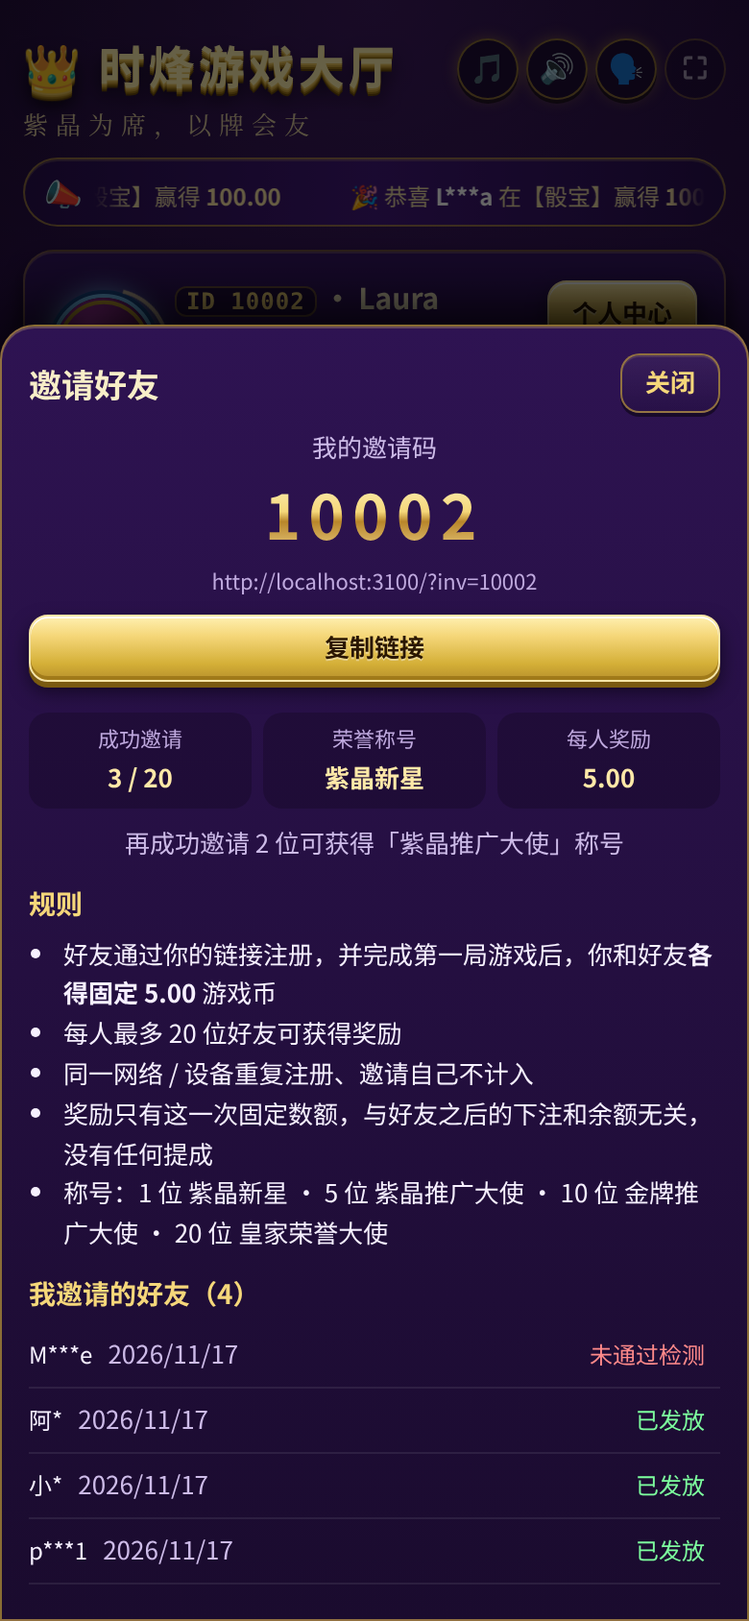
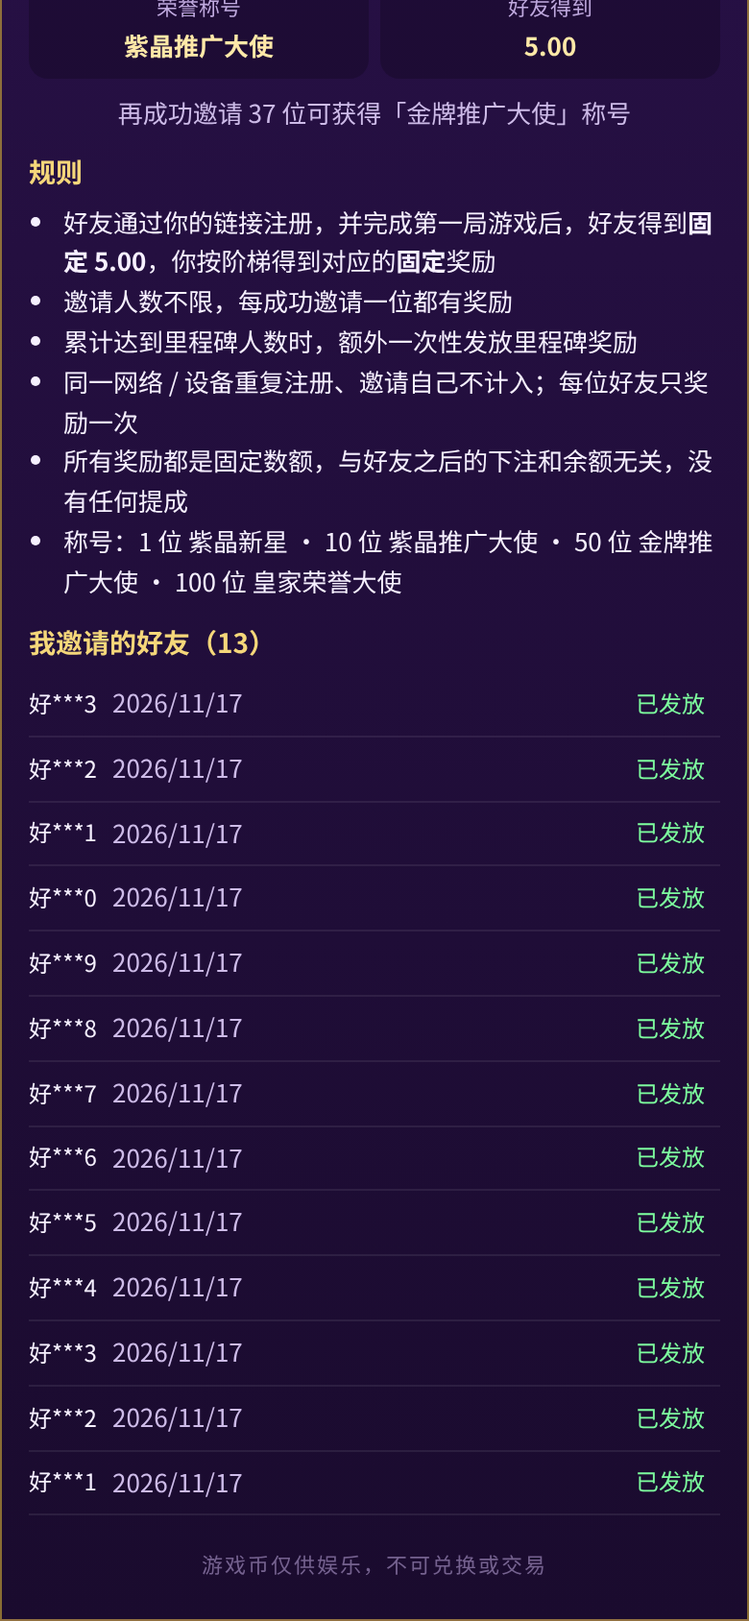
邀请好友：默认不限人数；邀请人阶梯奖励（1–10 位 5.00、11–50 位 8.00、51 位起 10.00）+ 里程碑一次性奖励（10/50/100 位）；后台可编辑；启动时把旧的 20 人上限迁移为不限

diff --git a/db.js b/db.js
@@ -1,3 +1,4 @@
+import { tierAmount } from "./platform.js";
 // 数据存储：有 DATABASE_URL 时用 Postgres，否则退回本地 JSON 文件（仅供本地开发/测试）
 // 这里存的全部是游戏筹码，不是真钱。
 import fs from "node:fs";
@@ -255,18 +256,24 @@ class PgStore {
   // ---- 邀请好友（固定奖励，没有提成、没有多级） ----
   async firstPlay(userId) { const r = await this.q(`UPDATE users SET first_played = TRUE WHERE id=$1 AND NOT first_played RETURNING invited_by, invite_status`, [userId]); return r.rows[0] ? { invitedBy: r.rows[0].invited_by == null ? null : Number(r.rows[0].invited_by), inviteStatus: r.rows[0].invite_status } : null; }
   async countInviteesByIp(inviterId, ip) { return Number((await this.q(`SELECT count(*) AS n FROM users WHERE invited_by=$1 AND (reg_ip=$2 OR last_ip=$2)`, [inviterId, ip])).rows[0].n); }
-  async inviteReward(inviteeId, amount, cap) {
+  // 一次事务：好友固定奖励 + 邀请人按档位的奖励 + 刚达到的里程碑（reward_claims 唯一索引保证每样只发一次）
+  async inviteReward(inviteeId, cfg) {
+    const { amount, cap = 0, tiers, milestones = [] } = cfg;
     return this.tx(async (c) => {
       const me = (await c.query(`SELECT invited_by, invite_status, username FROM users WHERE id=$1 FOR UPDATE`, [inviteeId])).rows[0];
       if (!me || me.invite_status !== "pending" || me.invited_by == null) return me ? me.invite_status : null;
       const inviter = Number(me.invited_by);
       const iv = (await c.query(`SELECT username FROM users WHERE id=$1 FOR UPDATE`, [inviter])).rows[0]; if (!iv) return null;
       const n = Number((await c.query(`SELECT count(*) AS n FROM users WHERE invited_by=$1 AND invite_status='rewarded'`, [inviter])).rows[0].n);
-      if (n >= cap) { await c.query(`UPDATE users SET invite_status='capped' WHERE id=$1`, [inviteeId]); return "capped"; }
-      await c.query(`INSERT INTO reward_claims (user_id, type, ref, amount) VALUES ($1,'invite',$3,$4), ($2,'invited',$3,$4)`, [inviter, inviteeId, "u" + inviteeId, amount]);
-      for (const [uid, why] of [[inviter, `邀请好友奖励（${me.username} 首次游戏）`], [inviteeId, `受邀注册奖励（邀请人 ${iv.username}）`]]) {
-        const b = await c.query(`UPDATE users SET balance = balance + $2 WHERE id=$1 RETURNING balance`, [uid, amount]);
-        await c.query(`INSERT INTO ledger (user_id, delta, balance_after, reason, actor) VALUES ($1,$2,$3,$4,'system')`, [uid, amount, Number(b.rows[0].balance), why]);
+      if (cap > 0 && n >= cap) { await c.query(`UPDATE users SET invite_status='capped' WHERE id=$1`, [inviteeId]); return "capped"; }
+      const k = n + 1, mine = tierAmount(k, tiers);
+      const pay = [[inviter, "invite", "u" + inviteeId, mine, `邀请好友奖励（第 ${k} 位：${me.username} 首次游戏）`], [inviteeId, "invited", "u" + inviteeId, amount, `受邀注册奖励（邀请人 ${iv.username}）`]];
+      for (const m of milestones) if (k >= m.at && m.bonus > 0) pay.push([inviter, "milestone", "m" + m.at, m.bonus, `邀请里程碑奖励（累计 ${m.at} 位）`]);
+      for (const [uid, type, ref, amt, why] of pay) {
+        const ins = await c.query(`INSERT INTO reward_claims (user_id, type, ref, amount) VALUES ($1,$2,$3,$4) ON CONFLICT DO NOTHING RETURNING id`, [uid, type, ref, amt]);
+        if (!ins.rows.length || !(amt > 0)) continue;
+        const b = await c.query(`UPDATE users SET balance = balance + $2 WHERE id=$1 RETURNING balance`, [uid, amt]);
+        await c.query(`INSERT INTO ledger (user_id, delta, balance_after, reason, actor) VALUES ($1,$2,$3,$4,'system')`, [uid, amt, Number(b.rows[0].balance), why]);
       }
       await c.query(`UPDATE users SET invite_status='rewarded' WHERE id=$1`, [inviteeId]);
       return "rewarded";
@@ -281,6 +288,7 @@ class PgStore {
     const top = (await this.q(`SELECT i.id, i.username, i.public_id, count(*) AS total, sum(CASE WHEN u.invite_status='rewarded' THEN 1 ELSE 0 END) AS rewarded FROM users u JOIN users i ON i.id=u.invited_by GROUP BY i.id, i.username, i.public_id ORDER BY rewarded DESC, total DESC LIMIT 30`)).rows;
     return { byStatus: Object.fromEntries(s.map((x) => [x.st || "none", Number(x.n)])), inviters: top.map((x) => ({ userId: Number(x.id), username: x.username, publicId: Number(x.public_id), total: Number(x.total), rewarded: Number(x.rewarded) })) };
   }
+  async userClaims(userId) { return (await this.q(`SELECT type, ref, amount FROM reward_claims WHERE user_id=$1`, [userId])).rows.map((x) => ({ type: x.type, ref: x.ref, amount: Number(x.amount) })); }
   async rewardTotals() {
     const r = await this.q(`SELECT type, count(*) AS n, COALESCE(sum(amount),0) AS amount FROM reward_claims GROUP BY type`);
     return Object.fromEntries(r.rows.map((x) => [x.type, { count: Number(x.n), amount: Number(x.amount) }]));
@@ -418,15 +426,21 @@ class JsonStore {
   }
   async firstPlay(userId) { const u = this.u(userId); if (!u || u.firstPlayed) return null; u.firstPlayed = true; this.save(); return { invitedBy: u.invitedBy ?? null, inviteStatus: u.inviteStatus ?? null }; }
   async countInviteesByIp(inviterId, ip) { return this.d.users.filter((x) => x.invitedBy === inviterId && (x.regIp === ip || x.lastIp === ip)).length; }
-  async inviteReward(inviteeId, amount, cap) {
+  async inviteReward(inviteeId, cfg) {
+    const { amount, cap = 0, tiers, milestones = [] } = cfg;
     const me = this.u(inviteeId); if (!me || me.inviteStatus !== "pending" || me.invitedBy == null) return me ? me.inviteStatus : null;
     const iv = this.u(me.invitedBy); if (!iv) return null;
-    if (this.d.users.filter((x) => x.invitedBy === iv.id && x.inviteStatus === "rewarded").length >= cap) { me.inviteStatus = "capped"; this.save(); return "capped"; }
+    const n = this.d.users.filter((x) => x.invitedBy === iv.id && x.inviteStatus === "rewarded").length;
+    if (cap > 0 && n >= cap) { me.inviteStatus = "capped"; this.save(); return "capped"; }
     const C = (this.d.claims ||= []);
     if (C.some((c) => c.type === "invite" && c.ref === "u" + inviteeId)) return "rewarded";
-    C.push({ userId: iv.id, type: "invite", ref: "u" + inviteeId, amount, at: Date.now() }, { userId: inviteeId, type: "invited", ref: "u" + inviteeId, amount, at: Date.now() });
-    iv.balance += amount; this.log(iv.id, amount, iv.balance, `邀请好友奖励（${me.username} 首次游戏）`, "system");
-    me.balance += amount; this.log(me.id, amount, me.balance, `受邀注册奖励（邀请人 ${iv.username}）`, "system");
+    const k = n + 1, pay = [[iv, "invite", "u" + inviteeId, tierAmount(k, tiers), `邀请好友奖励（第 ${k} 位：${me.username} 首次游戏）`], [me, "invited", "u" + inviteeId, amount, `受邀注册奖励（邀请人 ${iv.username}）`]];
+    for (const m of milestones) if (k >= m.at && m.bonus > 0) pay.push([iv, "milestone", "m" + m.at, m.bonus, `邀请里程碑奖励（累计 ${m.at} 位）`]);
+    for (const [u, type, ref, amt, why] of pay) {
+      if (C.some((c) => c.type === type && c.userId === u.id && c.ref === ref)) continue;
+      C.push({ userId: u.id, type, ref, amount: amt, at: Date.now() });
+      if (amt > 0) { u.balance += amt; this.log(u.id, amt, u.balance, why, "system"); }
+    }
     me.inviteStatus = "rewarded"; this.save(); return "rewarded";
   }
   async inviteList(inviterId) { return this.d.users.filter((x) => x.invitedBy === inviterId).sort((a, b) => b.id - a.id).slice(0, 100).map((x) => ({ username: x.username, status: x.inviteStatus, at: x.createdAt })); }
@@ -436,6 +450,8 @@ class JsonStore {
     const inviters = [...m].map(([id, t]) => { const u = this.u(id) || {}; return { userId: id, username: u.username, publicId: u.publicId, ...t }; }).sort((a, b) => b.rewarded - a.rewarded || b.total - a.total).slice(0, 30);
     return { byStatus, inviters };
   }
+  async userClaims(userId) { return (await this.q(`SELECT type, ref, amount FROM reward_claims WHERE user_id=$1`, [userId])).rows.map((x) => ({ type: x.type, ref: x.ref, amount: Number(x.amount) })); }
+  async userClaims(userId) { return (this.d.claims || []).filter((c) => c.userId === userId).map((c) => ({ type: c.type, ref: c.ref, amount: c.amount })); }
   async rewardTotals() { const o = {}; for (const c of this.d.claims || []) { const t = (o[c.type] ||= { count: 0, amount: 0 }); t.count++; t.amount += c.amount; } return o; }
   async close() { this.save(); }
 }

diff --git a/public/index.html b/public/index.html
@@ -633,6 +633,10 @@ html.land #tgRes2 .in{padding:8px 18px;width:100%}html.land #tgRes2 .t{font-size
 html:not(.land) #tg[data-g="baccarat"] .pc.t{width:44px;height:62px;font-size:19px}
 .pc.t.third{margin:0 9px}
 .seg.blinds button{font-size:13px;padding-left:2px;padding-right:2px;white-space:nowrap}
+.tiers{display:flex;flex-direction:column;gap:4px}.tiers>div{display:grid;grid-template-columns:1fr auto auto 38px;gap:6px;align-items:center;padding:6px 10px;border-radius:10px;background:#0003;border:1px solid #ffffff14}
+.tiers>div.on{border-color:#f5d77a;background:#f5d77a22;box-shadow:0 0 10px #f5d77a55}.tiers>div.past{opacity:.6}.tiers b{color:#ffe9a8;font-size:16px}.tiers i{font-style:normal;font-size:10px;background:#d4af37;color:#2a1600;border-radius:6px;padding:0 4px;text-align:center}
+.miles{display:grid;grid-template-columns:repeat(3,1fr);gap:6px}.miles>div{background:#0003;border-radius:10px;padding:6px;text-align:center;border:1px solid #ffffff14;display:flex;flex-direction:column}
+.miles>div.done{border-color:#7dff9e88}.miles .ma{font-size:11px;color:#bfa9de}.miles b{color:#ffe9a8}.miles .mp{font-size:11px}
 </style>
 </head>
 <body>
@@ -993,10 +997,15 @@ window.openInvite = async () => {
   const link = location.origin + "/?inv=" + d.code, ST = { pending: "等待首局", rewarded: "已发放", blocked: "未通过检测", capped: "已达上限" };
   hModal("邀请好友", `<div class="invhead"><div class="muted">我的邀请码</div><div class="invcode">${esc(d.code)}</div><div class="invlink">${esc(link)}</div>
     <div class="row" style="justify-content:center;gap:8px;margin-top:8px"><button class="pri sm" id="invCopy">复制链接</button>${navigator.share ? `<button class="blue sm" id="invShare">分享</button>` : ""}</div></div>
-    <div class="invstat"><div><div class="k">成功邀请</div><div class="v">${d.rewarded} / ${d.cap}</div></div><div><div class="k">荣誉称号</div><div class="v">${d.title ? esc(d.title) : "—"}</div></div><div><div class="k">每人奖励</div><div class="v">${M(d.amount)}</div></div></div>
-    ${d.next ? `<div class="muted" style="text-align:center">再成功邀请 ${d.next.n - d.rewarded} 位可获得「${esc(d.next.title)}」称号</div>` : ""}
+    <div class="invstat"><div><div class="k">成功邀请</div><div class="v">${d.cap > 0 ? `${d.rewarded} / ${d.cap}` : d.rewarded}</div></div><div><div class="k">已获邀请奖励</div><div class="v">${M(d.earned)}</div></div><div><div class="k">下一位可得</div><div class="v">${M(d.nextReward)}</div></div></div>
     ${d.enabled ? "" : `<div class="nochips">邀请奖励活动暂未开启</div>`}
-    <h3>规则</h3><ul class="invrules"><li>好友通过你的链接注册，并完成第一局游戏后，你和好友<b>各得固定 ${M(d.amount)}</b> 游戏币</li><li>每人最多 ${d.cap} 位好友可获得奖励</li><li>同一网络 / 设备重复注册、邀请自己不计入</li><li>奖励只有这一次固定数额，与好友之后的下注和余额无关，没有任何提成</li><li>称号：1 位 紫晶新星 · 5 位 紫晶推广大使 · 10 位 金牌推广大使 · 20 位 皇家荣誉大使</li></ul>
+    <h3>阶梯奖励 · 邀请越多每位越多</h3>
+    <div class="tiers">${d.tiers.map((t, i) => { const to = d.tiers[i + 1] ? d.tiers[i + 1].from - 1 : null, on = d.tier.current && d.tier.current.from === t.from; return `<div class="${on ? "on" : ""} ${d.rewarded >= (to || Infinity) ? "past" : ""}"><span class="tr">第 ${t.from}${to ? `–${to}` : " 位起"}${to ? " 位" : ""}</span><b>${M(t.amount)}</b><span class="muted">/ 位</span>${on ? `<i>当前</i>` : ""}</div>`; }).join("")}</div>
+    ${d.tier.next ? `<div class="vbar"><i style="width:${Math.round(d.tier.progress * 100)}%"></i></div><div class="muted" style="text-align:center">再成功邀请 ${d.tier.next.need} 位，之后每位 ${M(d.tier.next.amount)}</div>` : `<div class="muted" style="text-align:center">已达到最高档：每位 ${M(d.tier.current ? d.tier.current.amount : 0)}</div>`}
+    ${d.milestones.length ? `<h3>里程碑奖励（每档只发一次）</h3><div class="miles">${d.milestones.map((m) => `<div class="${m.done ? "done" : ""}"><span class="ma">累计 ${m.at} 位</span><b>+${M(m.bonus)}</b><span class="mp">${m.done ? "✅ 已领取" : `${Math.min(d.rewarded, m.at)} / ${m.at}`}</span></div>`).join("")}</div>` : ""}
+    <div class="invstat" style="grid-template-columns:1fr 1fr"><div><div class="k">荣誉称号</div><div class="v">${d.title ? esc(d.title) : "—"}</div></div><div><div class="k">好友得到</div><div class="v">${M(d.amount)}</div></div></div>
+    ${d.next ? `<div class="muted" style="text-align:center">再成功邀请 ${d.next.n - d.rewarded} 位可获得「${esc(d.next.title)}」称号</div>` : ""}
+    <h3>规则</h3><ul class="invrules"><li>好友通过你的链接注册，并完成第一局游戏后，好友得到<b>固定 ${M(d.amount)}</b>，你按阶梯得到对应的<b>固定</b>奖励</li><li>${d.cap > 0 ? `每人最多 ${d.cap} 位好友可获得奖励` : "邀请人数不限，每成功邀请一位都有奖励"}</li><li>累计达到里程碑人数时，额外一次性发放里程碑奖励</li><li>同一网络 / 设备重复注册、邀请自己不计入；每位好友只奖励一次</li><li>所有奖励都是固定数额，与好友之后的下注和余额无关，没有任何提成</li><li>称号：${["紫晶新星", "紫晶推广大使", "金牌推广大使", "皇家荣誉大使"].map((t, i) => `${[1, 10, 50, 100][i]} 位 ${t}`).join(" · ")}</li></ul>
     <h3>我邀请的好友（${d.total}）</h3>${d.list.length ? d.list.map((x) => `<div class="hrow"><span>${esc(x.name)}</span><span class="muted">${new Date(x.at).toLocaleDateString("zh-CN")}</span><span class="st ${x.status}">${ST[x.status] || x.status}</span></div>`).join("") : `<div class="muted">还没有邀请记录</div>`}`);
   const cp = async () => { try { await navigator.clipboard.writeText(link); toast("已复制邀请链接"); } catch (e) { toast(link); } };
   $("invCopy").onclick = cp; if ($("invShare")) $("invShare").onclick = () => navigator.share({ title: "时烽游戏大厅", text: "来时烽游戏大厅一起玩（游戏币仅供娱乐）", url: link }).catch(() => {});

diff --git a/public/admin.html b/public/admin.html
@@ -109,9 +109,11 @@ footer.safe{text-align:center;font-size:11px;color:#b9a6d6;opacity:.75;padding:1
 
     <div id="t-rw" class="hidden">
       <div class="box"><h2>邀请好友奖励</h2>
-        <div class="muted">好友注册并完成第一局后，邀请人和好友各得固定金额。没有提成、没有多级、与好友之后的下注和余额无关。</div>
+        <div class="muted">好友注册并完成第一局后，好友得固定金额，邀请人按第几位成功邀请拿对应档位的固定金额，达到里程碑再发一次性奖励。没有提成、没有多级、与好友之后的下注和余额无关。</div>
         <label class="row" style="gap:8px;margin-top:8px;flex-wrap:nowrap"><input type="checkbox" id="rwOn" style="width:auto;flex:none"> 开启邀请奖励</label>
-        <div class="row" style="flex-wrap:nowrap;gap:8px"><div style="flex:1"><label>每人奖励（游戏币）</label><input id="rwAmt" inputmode="decimal"></div><div style="flex:1"><label>每位邀请人上限（人）</label><input id="rwCap" type="number" inputmode="numeric"></div></div>
+        <div class="row" style="flex-wrap:nowrap;gap:8px"><div style="flex:1"><label>好友得到（固定，游戏币）</label><input id="rwAmt" inputmode="decimal"></div><div style="flex:1"><label>每位邀请人上限（人，留空或 0 = 不限）</label><input id="rwCap" type="number" inputmode="numeric" min="0" placeholder="不限"></div></div>
+        <h2 style="margin-top:12px">邀请人阶梯奖励（第 N 位起每位）</h2><div id="rwTiers"></div><button class="ghost sm" id="rwTierAdd">＋ 加一档</button>
+        <h2 style="margin-top:12px">里程碑一次性奖励</h2><div id="rwMiles"></div><button class="ghost sm" id="rwMileAdd">＋ 加里程碑</button>
         <button class="pri" id="rwSave" style="width:100%;margin-top:10px">保存</button></div>
       <div class="box"><h2>已发放（按奖励类型）</h2><div class="stats" id="rwTotals"></div></div>
       <div class="box"><h2>邀请状态</h2><div class="stats" id="rwStatus"></div><h2 style="margin-top:12px">邀请人统计（后台查看，不公开）</h2><div id="rwInviters"></div></div>
@@ -285,8 +287,9 @@ async function loadGmRecent() {
 // ---------- 邀请奖励 ----------
 async function loadRw() {
   try { const d = await call("GET", "/api/admin/rewards"); const s = d.settings.invite;
-    $("rwOn").checked = !!s.enabled; $("rwAmt").value = (s.amount / 100).toFixed(2); $("rwCap").value = s.cap;
-    const T = d.totals, TN = { invite: "邀请人奖励", invited: "被邀请人奖励" };
+    $("rwOn").checked = !!s.enabled; $("rwAmt").value = (s.amount / 100).toFixed(2); $("rwCap").value = s.cap > 0 ? s.cap : "";
+    TIERS = (s.tiers || []).map((t) => ({ ...t })); MILES = (s.milestones || []).map((m) => ({ ...m })); paintTiers();
+    const T = d.totals, TN = { invite: "邀请人阶梯奖励", milestone: "里程碑奖励", invited: "被邀请人奖励" };
     const all = Object.values(T).reduce((a, x) => a + x.amount, 0);
     $("rwTotals").innerHTML = [...Object.entries(TN).map(([k, n]) => [n, `${fmt((T[k] || {}).amount || 0)}（${num((T[k] || {}).count || 0)} 笔）`]), ["合计", fmt(all)]].map(([k, v]) => `<div><div class="k">${k}</div><div class="v">${v}</div></div>`).join("");
     const SN = { pending: "等待首局", rewarded: "已发放", blocked: "同 IP 拦截", capped: "超过上限" };
@@ -294,7 +297,14 @@ async function loadRw() {
     $("rwInviters").innerHTML = d.invites.inviters.length ? d.invites.inviters.map((x) => `<div class="mem"><span><span class="pid">ID ${x.publicId}</span> ${esc(x.username)}</span><span>邀请 ${x.total} · 成功 ${x.rewarded}</span></div>`).join("") : `<div class="muted">还没有邀请记录</div>`;
   } catch (e) { toast(e.message); }
 }
-$("rwSave").onclick = async () => { try { await call("POST", "/api/admin/rewards", { invite: { enabled: $("rwOn").checked, amount: toCents($("rwAmt").value), cap: +$("rwCap").value } }); toast("已保存"); loadRw(); } catch (e) { toast(e.message); } };
+let TIERS = [], MILES = [];
+function paintTiers() {
+  $("rwTiers").innerHTML = TIERS.map((t, i) => `<div class="row" style="flex-wrap:nowrap;gap:6px;margin:4px 0"><span style="flex:none">第</span><input value="${t.from}" ${i === 0 ? "disabled" : ""} type="number" min="1" oninput="TIERS[${i}].from=+this.value"><span style="flex:none">位起，每位</span><input value="${(t.amount / 100).toFixed(2)}" inputmode="decimal" oninput="TIERS[${i}].amount=toCents(this.value)">${i ? `<button class="red sm" style="flex:none" onclick="TIERS.splice(${i},1);paintTiers()">删</button>` : ""}</div>`).join("");
+  $("rwMiles").innerHTML = MILES.map((m, i) => `<div class="row" style="flex-wrap:nowrap;gap:6px;margin:4px 0"><span style="flex:none">累计</span><input value="${m.at}" type="number" min="1" oninput="MILES[${i}].at=+this.value"><span style="flex:none">位，奖励</span><input value="${(m.bonus / 100).toFixed(2)}" inputmode="decimal" oninput="MILES[${i}].bonus=toCents(this.value)"><button class="red sm" style="flex:none" onclick="MILES.splice(${i},1);paintTiers()">删</button></div>`).join("") || `<div class="muted">没有里程碑</div>`;
+}
+$("rwTierAdd").onclick = () => { const l = TIERS[TIERS.length - 1]; TIERS.push({ from: l ? l.from + 10 : 1, amount: l ? l.amount : 500 }); paintTiers(); };
+$("rwMileAdd").onclick = () => { const l = MILES[MILES.length - 1]; MILES.push({ at: l ? l.at * 2 : 10, bonus: l ? l.bonus : 2000 }); paintTiers(); };
+$("rwSave").onclick = async () => { try { await call("POST", "/api/admin/rewards", { invite: { enabled: $("rwOn").checked, amount: toCents($("rwAmt").value), cap: $("rwCap").value.trim() === "" ? 0 : +$("rwCap").value, tiers: TIERS, milestones: MILES } }); toast("已保存"); loadRw(); } catch (e) { toast(e.message); } };
 // ---------- 公告 ----------
 let AN = [];
 function paintAn() {

diff --git a/server.js b/server.js
@@ -11,7 +11,7 @@ import * as E from "./engine.js";
 import { openStore } from "./db.js";
 import * as Slot from "./slot.js";
 import { mountTables, DEFAULT_LIMITS, GAMES } from "./games/routes.js";
-import { vipOf, inviteTitle, DEFAULT_REWARDS, mask, VIP } from "./platform.js";
+import { vipOf, inviteTitle, DEFAULT_REWARDS, mask, VIP, tierInfo, tierAmount, cleanTiers, cleanMilestones } from "./platform.js";
 
 const __dirname = path.dirname(fileURLToPath(import.meta.url));
 const MAX_SEATS = 9;
@@ -41,6 +41,11 @@ export async function createApp(opts = {}) {
   // 每个游戏的最低/最高下注（分）、邀请奖励设置、公告：存在 settings 表里，后台可以改
   const limits = Object.fromEntries(Object.entries(DEFAULT_LIMITS).map(([g, d]) => [g, { ...d, ...((stored.gameLimits || {})[g] || {}) }]));
   const rewards = { invite: { ...DEFAULT_REWARDS.invite, ...((stored.rewards || {}).invite || {}) } };
+  // 一次性迁移：邀请人数改为不限（cap = 0），并换成阶梯奖励 + 里程碑。之后后台再改会照常保存
+  if (!stored.inviteTiersV1) {
+    rewards.invite.cap = 0; rewards.invite.tiers = DEFAULT_REWARDS.invite.tiers; rewards.invite.milestones = DEFAULT_REWARDS.invite.milestones;
+    await store.setSetting("rewards", rewards); await store.setSetting("inviteTiersV1", true);
+  }
   let announcements = Array.isArray(stored.announcements) ? stored.announcements : [];
   let house = await store.getUserByName(HOUSE);
   if (!house) house = await store.createUser(HOUSE, "!", 0, { isHouse: true });
@@ -642,17 +647,22 @@ export async function createApp(opts = {}) {
     res.json({ ok: true, settings });
   });
   // ---------- 平台：邀请好友 / 跑马灯 / 公告 ----------
-  // 被邀请人第一次完成任意一局游戏时，双方各得固定奖励；每位邀请人最多奖励 20 位。没有提成、没有多级。
+  // 被邀请人第一次完成任意一局游戏时：好友得固定奖励，邀请人按第几位成功邀请拿对应档位的固定奖励，
+  // 累计人数达到里程碑时再一次性发里程碑奖励。默认不限人数。没有提成、没有多级，和好友的余额、下注都无关。
   async function onPlayed(uid) {
     const r = await store.firstPlay(uid);
-    if (!r || !r.invitedBy || r.inviteStatus !== "pending" || !rewards.invite.enabled || !(rewards.invite.amount > 0)) return;
-    const st = await store.inviteReward(uid, rewards.invite.amount, rewards.invite.cap);
+    if (!r || !r.invitedBy || r.inviteStatus !== "pending" || !rewards.invite.enabled) return;
+    const st = await store.inviteReward(uid, rewards.invite);
     if (st === "rewarded") { pushMe(uid); pushMe(r.invitedBy); }
   }
   app.get("/api/me/invite", auth, async (req, res, next) => {
     try {
-      const list = await store.inviteList(req.user.id); const ok = list.filter((x) => x.status === "rewarded").length;
-      res.json({ code: req.user.publicId, rewarded: ok, total: list.length, ...rewards.invite, ...inviteTitle(ok),
+      const list = await store.inviteList(req.user.id), claims = await store.userClaims(req.user.id);
+      const ok = claims.filter((c) => c.type === "invite").length, earned = claims.filter((c) => c.type === "invite" || c.type === "milestone").reduce((a, c) => a + c.amount, 0);
+      const got = new Set(claims.filter((c) => c.type === "milestone").map((c) => c.ref)), iv = rewards.invite;
+      res.json({ code: req.user.publicId, rewarded: ok, total: list.length, earned, enabled: iv.enabled, amount: iv.amount, cap: iv.cap, tiers: iv.tiers,
+        nextReward: iv.cap > 0 && ok >= iv.cap ? 0 : tierAmount(ok + 1, iv.tiers), tier: tierInfo(ok, iv.tiers),
+        milestones: iv.milestones.map((m) => ({ ...m, done: got.has("m" + m.at) })), ...inviteTitle(ok),
         list: list.map((x) => ({ name: mask(x.username), status: x.status, at: x.at })) });
     } catch (e) { next(e); }
   });
@@ -676,7 +686,9 @@ export async function createApp(opts = {}) {
   apost("/rewards", async (req, res) => {
     const iv = req.body?.invite || {};
     if (iv.amount !== undefined) { const a = Math.trunc(Number(iv.amount)); if (!(a >= 0 && a <= 100000)) return res.status(400).json({ error: "奖励金额需在 0–1,000.00 之间" }); rewards.invite.amount = a; }
-    if (iv.cap !== undefined) { const c = Math.trunc(Number(iv.cap)); if (!(c >= 0 && c <= 100)) return res.status(400).json({ error: "上限需在 0–100 之间" }); rewards.invite.cap = c; }
+    if (iv.cap !== undefined) { const c = iv.cap === null || iv.cap === "" ? 0 : Math.trunc(Number(iv.cap)); if (!(c >= 0 && c <= 1000000)) return res.status(400).json({ error: "上限请填 0 或正整数（留空或 0 表示不限）" }); rewards.invite.cap = c; }
+    if (iv.tiers !== undefined) { const t = cleanTiers(iv.tiers); if (!t) return res.status(400).json({ error: "档位格式不正确：第一档必须从第 1 位开始，起始位数递增，每位奖励 0–1,000.00" }); rewards.invite.tiers = t; }
+    if (iv.milestones !== undefined) { const m = cleanMilestones(iv.milestones); if (!m) return res.status(400).json({ error: "里程碑格式不正确：人数为正整数且不重复，奖励 0–10,000.00" }); rewards.invite.milestones = m; }
     if (iv.enabled !== undefined) rewards.invite.enabled = !!iv.enabled;
     await store.setSetting("rewards", rewards); res.json({ ok: true, settings: rewards });
   });

diff --git a/platform.js b/platform.js
@@ -12,7 +12,38 @@ export function vipOf(turnover = 0) {
   return { level: v.level, title: v.title, turnover, next: next ? { level: next.level, title: next.title, need: next.need } : null,
     progress: next ? Math.min(1, (turnover - v.need) / (next.need - v.need)) : 1 };
 }
-export const INVITE_TITLES = [{ n: 1, title: "紫晶新星" }, { n: 5, title: "紫晶推广大使" }, { n: 10, title: "金牌推广大使" }, { n: 20, title: "皇家荣誉大使" }];
+export const INVITE_TITLES = [{ n: 1, title: "紫晶新星" }, { n: 10, title: "紫晶推广大使" }, { n: 50, title: "金牌推广大使" }, { n: 100, title: "皇家荣誉大使" }];
 export function inviteTitle(n) { let t = null; for (const x of INVITE_TITLES) if (n >= x.n) t = x.title; const next = INVITE_TITLES.find((x) => n < x.n) || null; return { title: t, next }; }
-export const DEFAULT_REWARDS = { invite: { enabled: true, amount: 500, cap: 20 } }; // 5.00，每人最多 20 位好友
+// 邀请奖励（全部是固定数额的游戏币，和好友的余额、下注都无关）：
+//   amount     被邀请的好友固定得到的数额（5.00）
+//   tiers      邀请人第 n 位成功邀请得到的数额：按 n 落在哪一档（from = 这一档从第几位开始）
+//   milestones 邀请人成功邀请累计达到 at 位时，一次性额外奖励 bonus（每档只发一次）
+//   cap        每位邀请人最多奖励多少位好友；0 = 不限
+export const DEFAULT_REWARDS = { invite: { enabled: true, amount: 500, cap: 0,
+  tiers: [{ from: 1, amount: 500 }, { from: 11, amount: 800 }, { from: 51, amount: 1000 }],
+  milestones: [{ at: 10, bonus: 2000 }, { at: 50, bonus: 10000 }, { at: 100, bonus: 30000 }] } };
+// 第 n 位成功邀请（从 1 开始）给邀请人的数额
+export function tierAmount(n, tiers = DEFAULT_REWARDS.invite.tiers) { let a = 0; for (const t of [...tiers].sort((x, y) => x.from - y.from)) if (n >= t.from) a = t.amount; return a; }
+// 已经成功邀请 done 位时：当前档（下一位按这一档发）、下一档、进度
+export function tierInfo(done, tiers = DEFAULT_REWARDS.invite.tiers) {
+  const T = [...tiers].sort((x, y) => x.from - y.from), k = done + 1;
+  let i = -1; T.forEach((t, j) => { if (k >= t.from) i = j; });
+  const cur = i >= 0 ? { ...T[i], to: T[i + 1] ? T[i + 1].from - 1 : null } : null, nxt = T[i + 1] || null;
+  return { current: cur, next: nxt ? { ...nxt, need: nxt.from - 1 - done } : null,
+    progress: nxt ? Math.min(1, (done - ((cur ? cur.from : 1) - 1)) / (nxt.from - (cur ? cur.from : 1))) : 1 };
+}
+// 校验后台提交的档位和里程碑
+export function cleanTiers(list) {
+  if (!Array.isArray(list) || !list.length || list.length > 10) return null;
+  const T = list.map((t) => ({ from: Math.trunc(Number(t.from)), amount: Math.trunc(Number(t.amount)) })).sort((a, b) => a.from - b.from);
+  if (T[0].from !== 1) return null;
+  for (let i = 0; i < T.length; i++) { const t = T[i]; if (!(t.from >= 1 && t.amount >= 0 && t.amount <= 100000) || (i && t.from <= T[i - 1].from)) return null; }
+  return T;
+}
+export function cleanMilestones(list) {
+  if (!Array.isArray(list) || list.length > 20) return null;
+  const M = list.map((m) => ({ at: Math.trunc(Number(m.at)), bonus: Math.trunc(Number(m.bonus)) })).sort((a, b) => a.at - b.at);
+  for (let i = 0; i < M.length; i++) { const m = M[i]; if (!(m.at >= 1 && m.at <= 1000000 && m.bonus >= 0 && m.bonus <= 1000000) || (i && m.at === M[i - 1].at)) return null; }
+  return M;
+}
 export function mask(name = "") { const a = [...String(name)]; if (a.length <= 1) return a.join("") + "*"; if (a.length === 2) return a[0] + "*"; return a[0] + "***" + a[a.length - 1]; }
